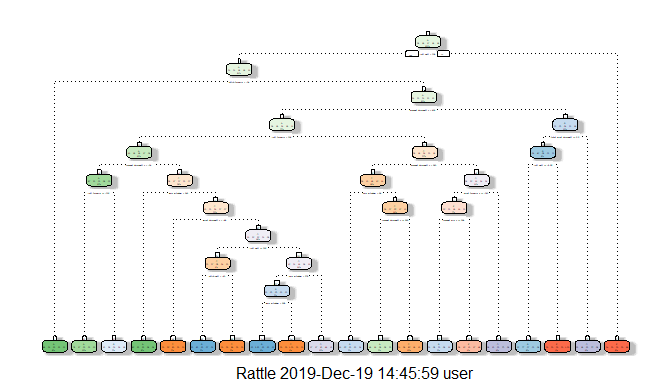
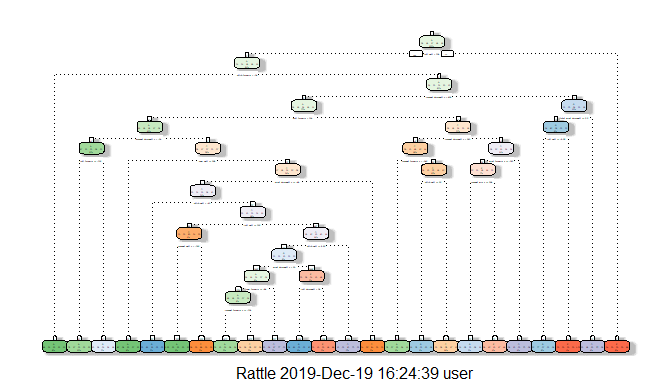
Latest version of assignment - week 4

diff --git a/PracticalMachineLearning-AssignmentWeek4/week4ass.html b/PracticalMachineLearning-AssignmentWeek4/week4ass.html
@@ -392,10 +392,10 @@ for (i in 1:testcol){
   i &lt;- i+1
 }
 testing2 &lt;- testing[, which(nacell2==0)]</code></pre>
-<p>The time related variables “raw_timestamp_part_1, raw_timestamp_part_2 and cvtd_timestamp” are removed as the focus is rather on the variables that have an effect on the classe variable. The index variable, X, is also not needed and therefore removed:</p>
+<p>The time related variables “raw_timestamp_part_1, raw_timestamp_part_2 and cvtd_timestamp” are removed as the focus is rather on the variables that have an effect on the classe variable. The index variable, X, new_window and num_window are also not needed and therefore removed:</p>
 <pre class="r"><code>library(dplyr)
-training3 &lt;- select(training2,-c(&quot;X&quot;, &quot;raw_timestamp_part_1&quot;, &quot;raw_timestamp_part_2&quot;, &quot;cvtd_timestamp&quot;))
-testing3 &lt;- select(testing2,-c(&quot;X&quot;, &quot;raw_timestamp_part_1&quot;, &quot;raw_timestamp_part_2&quot;, &quot;cvtd_timestamp&quot;))</code></pre>
+training3 &lt;- select(training2,-c(&quot;X&quot;, &quot;new_window&quot;, &quot;num_window&quot;, &quot;raw_timestamp_part_1&quot;, &quot;raw_timestamp_part_2&quot;, &quot;cvtd_timestamp&quot;))
+testing3 &lt;- select(testing2,-c(&quot;X&quot;, &quot;new_window&quot;, &quot;num_window&quot;, &quot;raw_timestamp_part_1&quot;, &quot;raw_timestamp_part_2&quot;, &quot;cvtd_timestamp&quot;))</code></pre>
 <p>Additionally, variables with very little variability are removed:</p>
 <pre class="r"><code>novar &lt;- nearZeroVar(training3)
 trainining3 &lt;- training3[-novar]
@@ -415,7 +415,7 @@ pred_rf &lt;- predict(model_rf, test_cv)
 accuracy_rf &lt;- confusionMatrix(table(pred_rf, test_cv$classe))$overall[1]
 print(accuracy_rf)</code></pre>
 <pre><code>##  Accuracy 
-## 0.9973491</code></pre>
+## 0.9961256</code></pre>
 </div>
 <div id="decision-tree" class="section level3">
 <h3>Decision tree:</h3>
@@ -424,10 +424,11 @@ pred_tree &lt;- predict(model_tree, test_cv, type = &quot;class&quot;)
 accuracy_tree &lt;- confusionMatrix(table(pred_tree, test_cv$classe))$overall[1]
 print(accuracy_tree)</code></pre>
 <pre><code>##  Accuracy 
-## 0.7281811</code></pre>
+## 0.7514274</code></pre>
 <pre class="r"><code>fancyRpartPlot(model_tree)</code></pre>
[1 lines of base64/hex data omitted]
-<p>The accuracy of the random forest is about 99.7 % while that of decision tree is 72.8 %. Therefore, the former approach with a better accuracy can now be used to predict classe using the testing sample. Moreover, the expected out-of-sample error, which corresponds to 1-accuracy from the cross validation data, of the chosen model (random forest) is about 1-99.7%=0.3%.</p>
+<pre><code>## Warning: labs do not fit even at cex 0.15, there may be some overplotting</code></pre>
[1 lines of base64/hex data omitted]
+<p>The accuracy of the random forest is about 99.6 % while that of decision tree is 75.1 %. Therefore, the former approach with a better accuracy can now be used to predict classe using the testing sample. Moreover, the expected out-of-sample error, which corresponds to 1-accuracy from the cross validation data, of the chosen model (random forest) is about 1-99.6%=0.4%.</p>
 <pre class="r"><code>model_rf2 &lt;- randomForest(classe ~ ., data=training3)</code></pre>
 </div>
 </div>

diff --git a/PracticalMachineLearning-AssignmentWeek4/week4ass.md b/PracticalMachineLearning-AssignmentWeek4/week4ass.md
@@ -50,13 +50,13 @@ for (i in 1:testcol){
 testing2 <- testing[, which(nacell2==0)]
 ```
 
-The time related variables "raw_timestamp_part_1, raw_timestamp_part_2 and cvtd_timestamp" are removed as the focus is rather on the variables that have an effect on the classe variable. The index variable, X, is also not needed and therefore removed:
+The time related variables "raw_timestamp_part_1, raw_timestamp_part_2 and cvtd_timestamp" are removed as the focus is rather on the variables that have an effect on the classe variable. The index variable, X, new_window and num_window are also not needed and therefore removed:
 
 
 ```r
 library(dplyr)
-training3 <- select(training2,-c("X", "raw_timestamp_part_1", "raw_timestamp_part_2", "cvtd_timestamp"))
-testing3 <- select(testing2,-c("X", "raw_timestamp_part_1", "raw_timestamp_part_2", "cvtd_timestamp"))
+training3 <- select(training2,-c("X", "new_window", "num_window", "raw_timestamp_part_1", "raw_timestamp_part_2", "cvtd_timestamp"))
+testing3 <- select(testing2,-c("X", "new_window", "num_window", "raw_timestamp_part_1", "raw_timestamp_part_2", "cvtd_timestamp"))
 ```
 
 Additionally, variables with very little variability are removed:
@@ -92,7 +92,7 @@ print(accuracy_rf)
 
 ```
 ##  Accuracy 
-## 0.9973491
+## 0.9961256
 ```
  
 ### Decision tree:
@@ -106,7 +106,7 @@ print(accuracy_tree)
 
 ```
 ##  Accuracy 
-## 0.7281811
+## 0.7514274
 ```
 
 
@@ -114,9 +114,13 @@ print(accuracy_tree)
 fancyRpartPlot(model_tree)
 ```
 
+```
+## Warning: labs do not fit even at cex 0.15, there may be some overplotting
+```
+
 ![](week4ass_files/figure-html/unnamed-chunk-10-1.png)<!-- -->
 
-The accuracy of the random forest is about 99.7 % while that of decision tree is 72.8 %. Therefore, the former approach with a better accuracy can now be used to predict classe using the testing sample. Moreover, the expected out-of-sample error, which corresponds to 1-accuracy from the cross validation data, of the chosen model (random forest) is about 1-99.7%=0.3%.
+The accuracy of the random forest is about 99.6 % while that of decision tree is 75.1 %. Therefore, the former approach with a better accuracy can now be used to predict classe using the testing sample. Moreover, the expected out-of-sample error, which corresponds to 1-accuracy from the cross validation data, of the chosen model (random forest) is about 1-99.6%=0.4%.
 
 
 ```r
